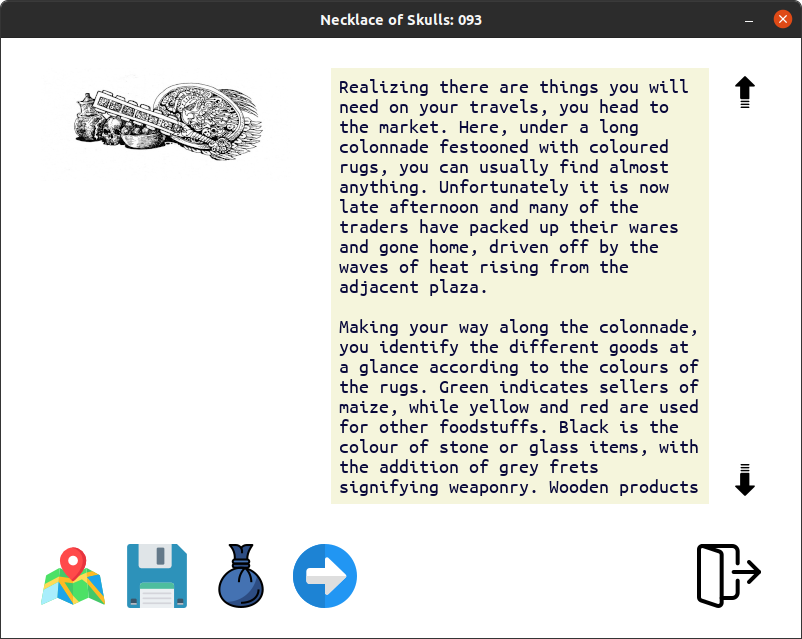
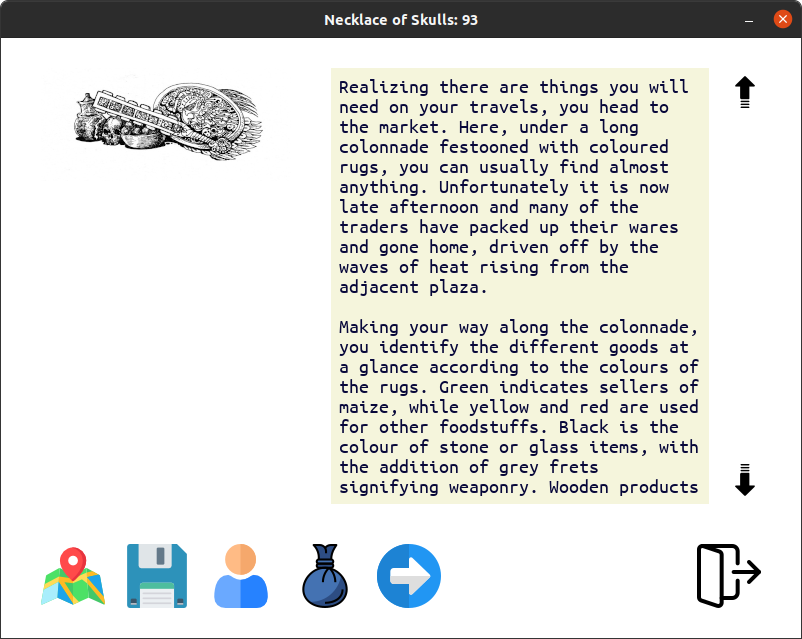
update screenshots and README

Changed region(s): [[0.2494, 0.8326, 0.5611, 0.9515], [0.4052, 0.0, 0.5923, 0.0595]]

diff --git a/README.md b/README.md
@@ -33,6 +33,10 @@ This is an implementation of the **Necklace of Skulls** game book (Virtual Reali
 
 ![Making a choice](/screenshots/making-choices.png)
 
+**Adventure Sheet**
+
+![Adventure Sheet](/screenshots/adventure-sheet.png)
+
 # Copyright Information 
 
 ```
